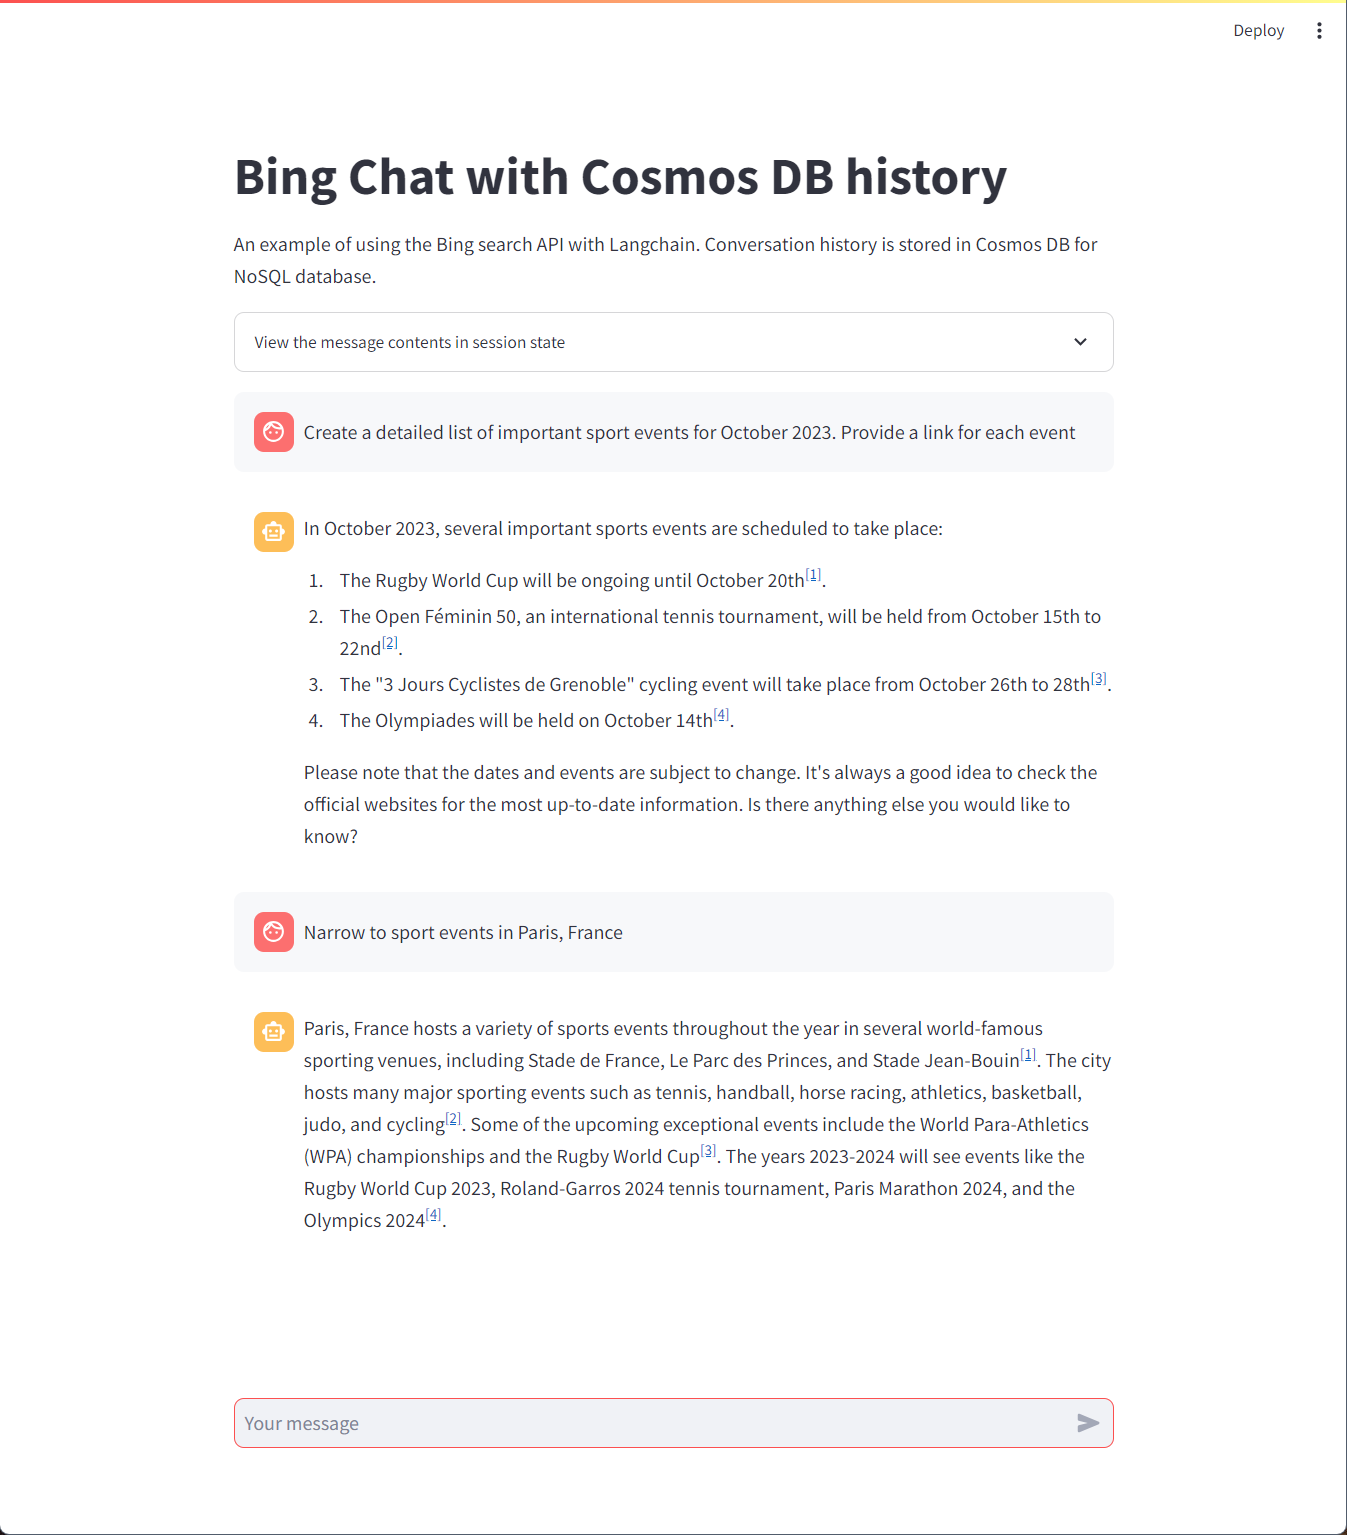
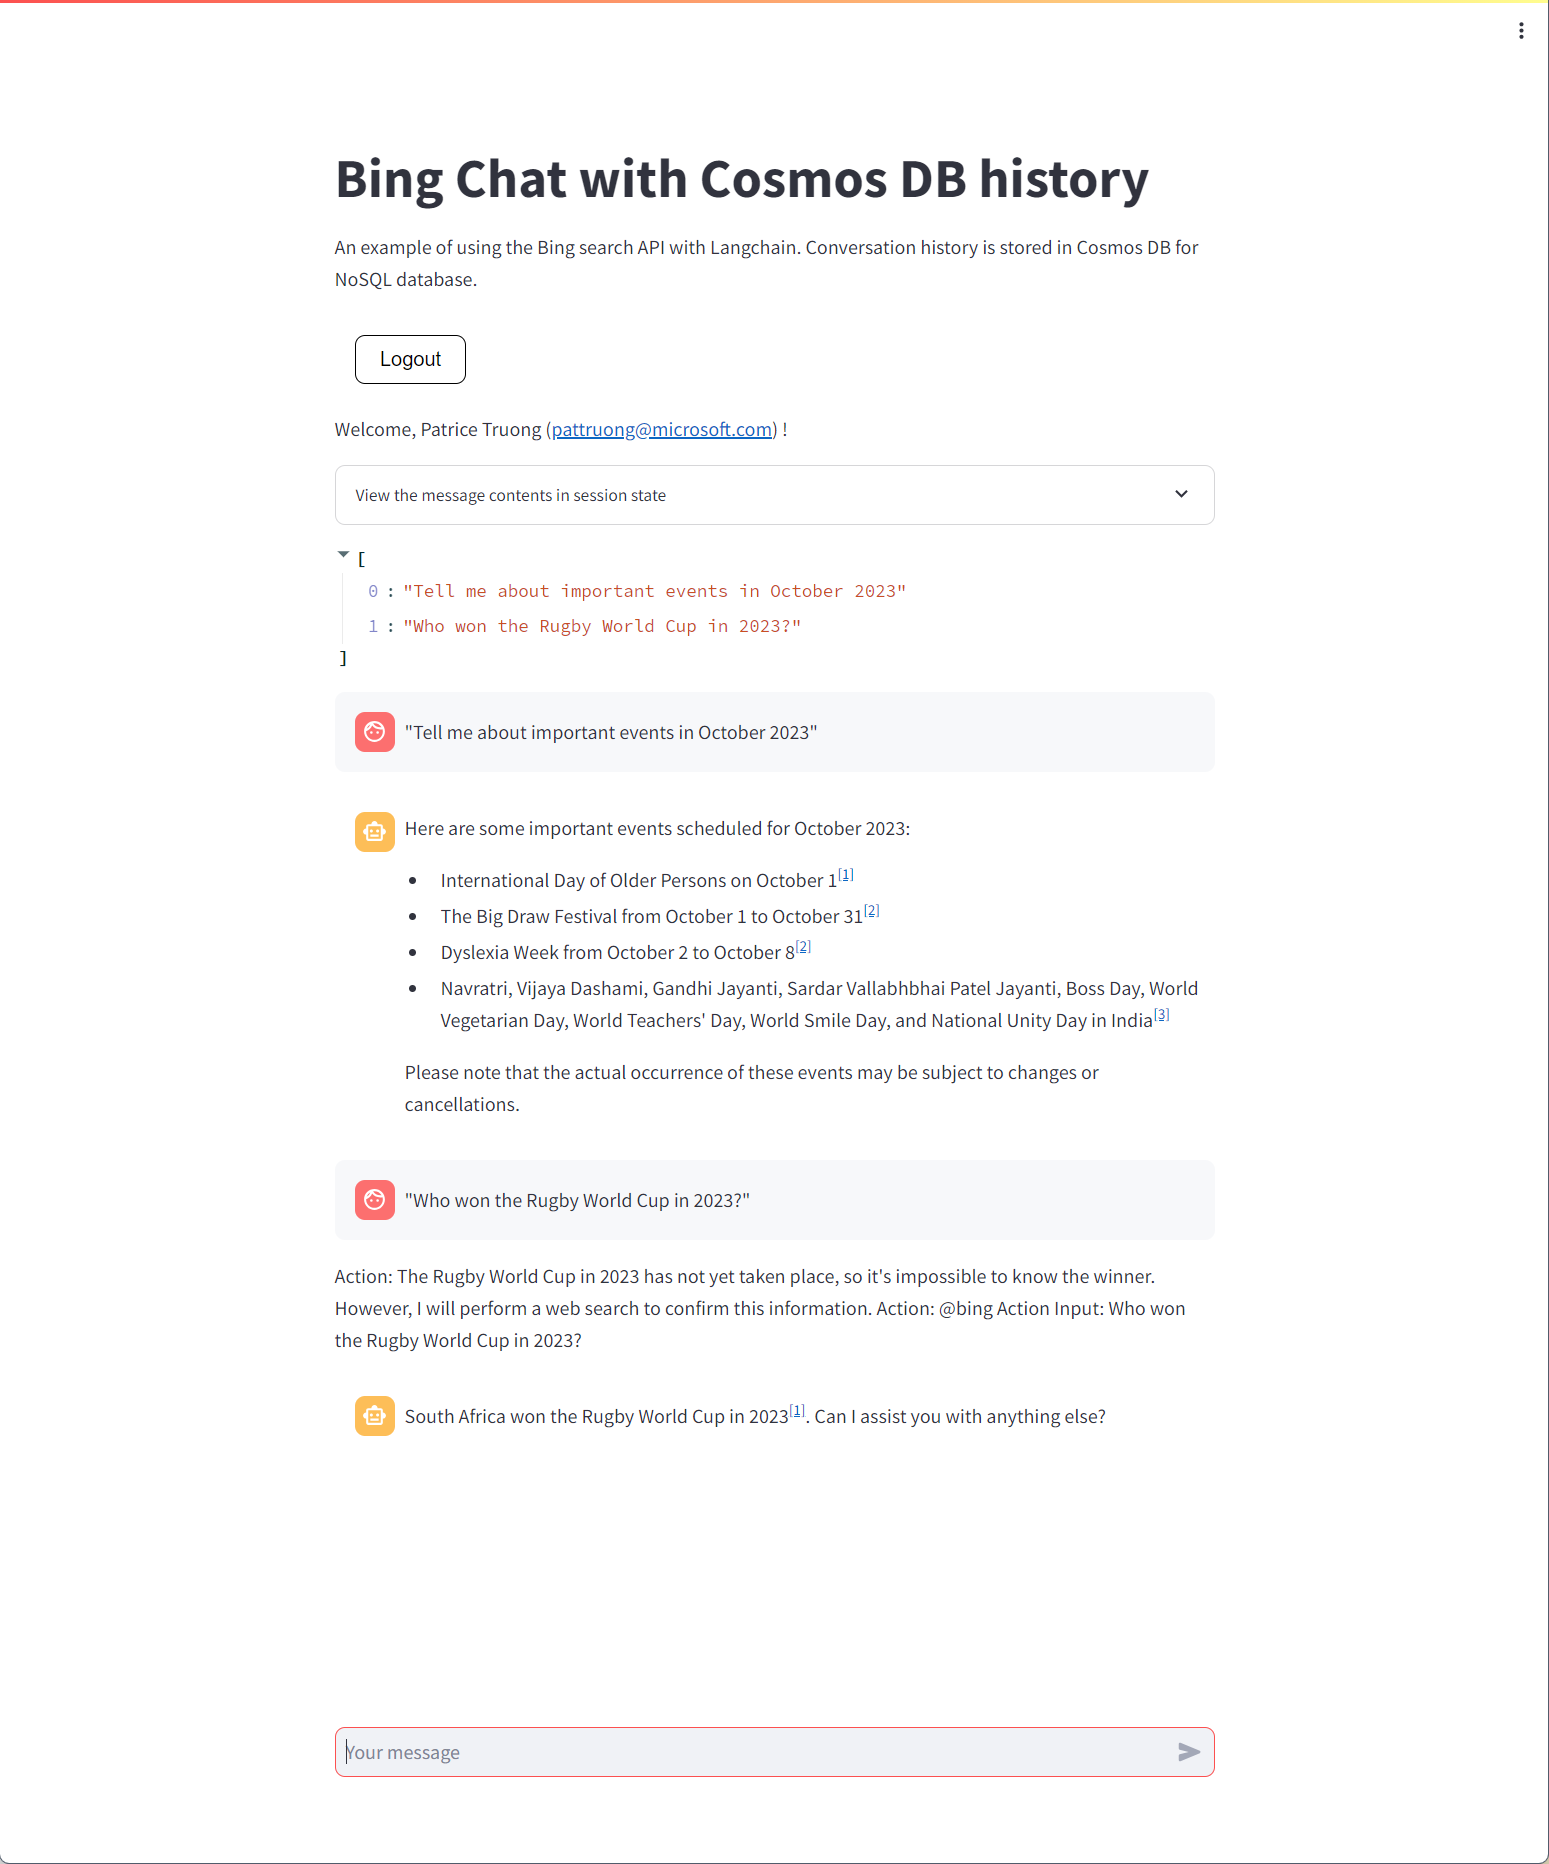
Online demo: Bing Chat with Cosmos DB history

diff --git a/cosmosdb-history/app.py b/cosmosdb-history/app.py
@@ -11,7 +11,7 @@ from langchain.memory import ConversationBufferWindowMemory
 import openai, os, random
 import streamlit as st
 from dotenv import load_dotenv
-
+from datetime import datetime
 from prompts import CUSTOM_CHATBOT_PREFIX, CUSTOM_CHATBOT_SUFFIX
 from utils import get_token
 from base64 import b64decode
@@ -52,13 +52,15 @@ if login_token is not None:
     email = login_token["account"]["username"]
     st.write(f"Welcome, {username} ({email}) !")
 
+    current_dt = str(datetime.now().strftime("%Y%m%d_%H%M%S"))
+
     cosmos = CosmosDBChatMessageHistory(
         cosmos_endpoint=cosmos_endpoint,
         cosmos_database=cosmos_database,
         cosmos_container=cosmos_container,
         connection_string=cosmos_connection_string,
-        session_id="Agent-Test-Session" + str(random.randint(1, 1000)),
-        user_id= email
+        session_id=current_dt,
+        user_id=email
         )
     # prepare the cosmosdb instance
     cosmos.prepare_cosmos()
@@ -68,6 +70,12 @@ if login_token is not None:
 
     view_messages = st.expander("View the message contents in session state")
 
+    questions = [
+        "Tell me about important events in October 2023",
+        "Who won the Rugby World Cup in 2023?"
+    ]
+
+    questions
 
     llm = AzureChatOpenAI(
         deployment_name=os.getenv("OPENAI_API_MODEL"), 

diff --git a/cosmosdb-history/utils.py b/cosmosdb-history/utils.py
@@ -6,12 +6,11 @@ import streamlit as st
 load_dotenv()
 
 def get_token():
-    tenant_id = os.getenv('TENANT_ID')
     client_id = os.getenv('APP_CLIENT_ID')
     login_token = msal_authentication(
         auth={
             "clientId": client_id,
-            "authority": f"https://login.microsoftonline.com/{tenant_id}",
+            "authority": f"https://login.microsoftonline.com/common",
             "redirectUri": "/",
             "postLogoutRedirectUri": "/"
         }, # Corresponds to the 'auth' configuration for an MSAL Instance

diff --git a/README.md b/README.md
@@ -5,7 +5,7 @@ Demos for Microsoft products and technologies
 | Link                          | Description                                                                     | Illustration                                                        |
 |-------------------------------|---------------------------------------------------------------------------------|---------------------------------------------------------------------|
 | [Code](video-frame-locator) [Demo](https://video-frame-locator-demo.azurewebsites.net/) | 2023-10-24:<br><b>Video frame locator</b> using Azure Computer Vision Florence 4  | <img src="video-frame-locator/video_frame_locator.jpg" width="300" alt="Video frame locator">  |
-| [Code](cosmosdb-history) | 2023-10-20:<br><b>Bing Chat</b> with conversation history stored in Cosmos DB for NoSQL  | <img src="cosmosdb-history/bing_chat_cosmosdb_history.png" width="300" alt="Bing Chat with Cosmos DB history">  |
+| [Code](cosmosdb-history) [Demo] (https://cosmosdb-history-demo.azurewebsites.net) | 2023-10-20:<br><b>Bing Chat</b> with conversation history stored in Cosmos DB for NoSQL  | <img src="cosmosdb-history/bing_chat_cosmosdb_history.png" width="300" alt="Bing Chat with Cosmos DB history">  |
 | [Code](langchain-bing) | 2023-10-20:<br>Use <b>Bing</b> in your Langchain chatbot | <img src="langchain-bing/langchain_bing.png" width="300" alt="Langchain with Bing">  |
 | [Code](product-search-cosmosdb-mongodb) | 2023-10-18:<br><b>Product search with embeddings</b> and Cosmos DB for Mongo DB vcore | <img src="product-search-cosmosdb-mongodb/product_search_cosmosdb_mongodb.png" width="300" alt="Product search Cosmos DB MongoDB">  |
 | [Code](generate-sql-code) | 2023-10-17:<br><b>Query Azure SQL database in natural language</b> with Azure OpenAI  | <img src="generate-sql-code/generate_sql_code.png" width="300" alt="Generate SQL code">  |
